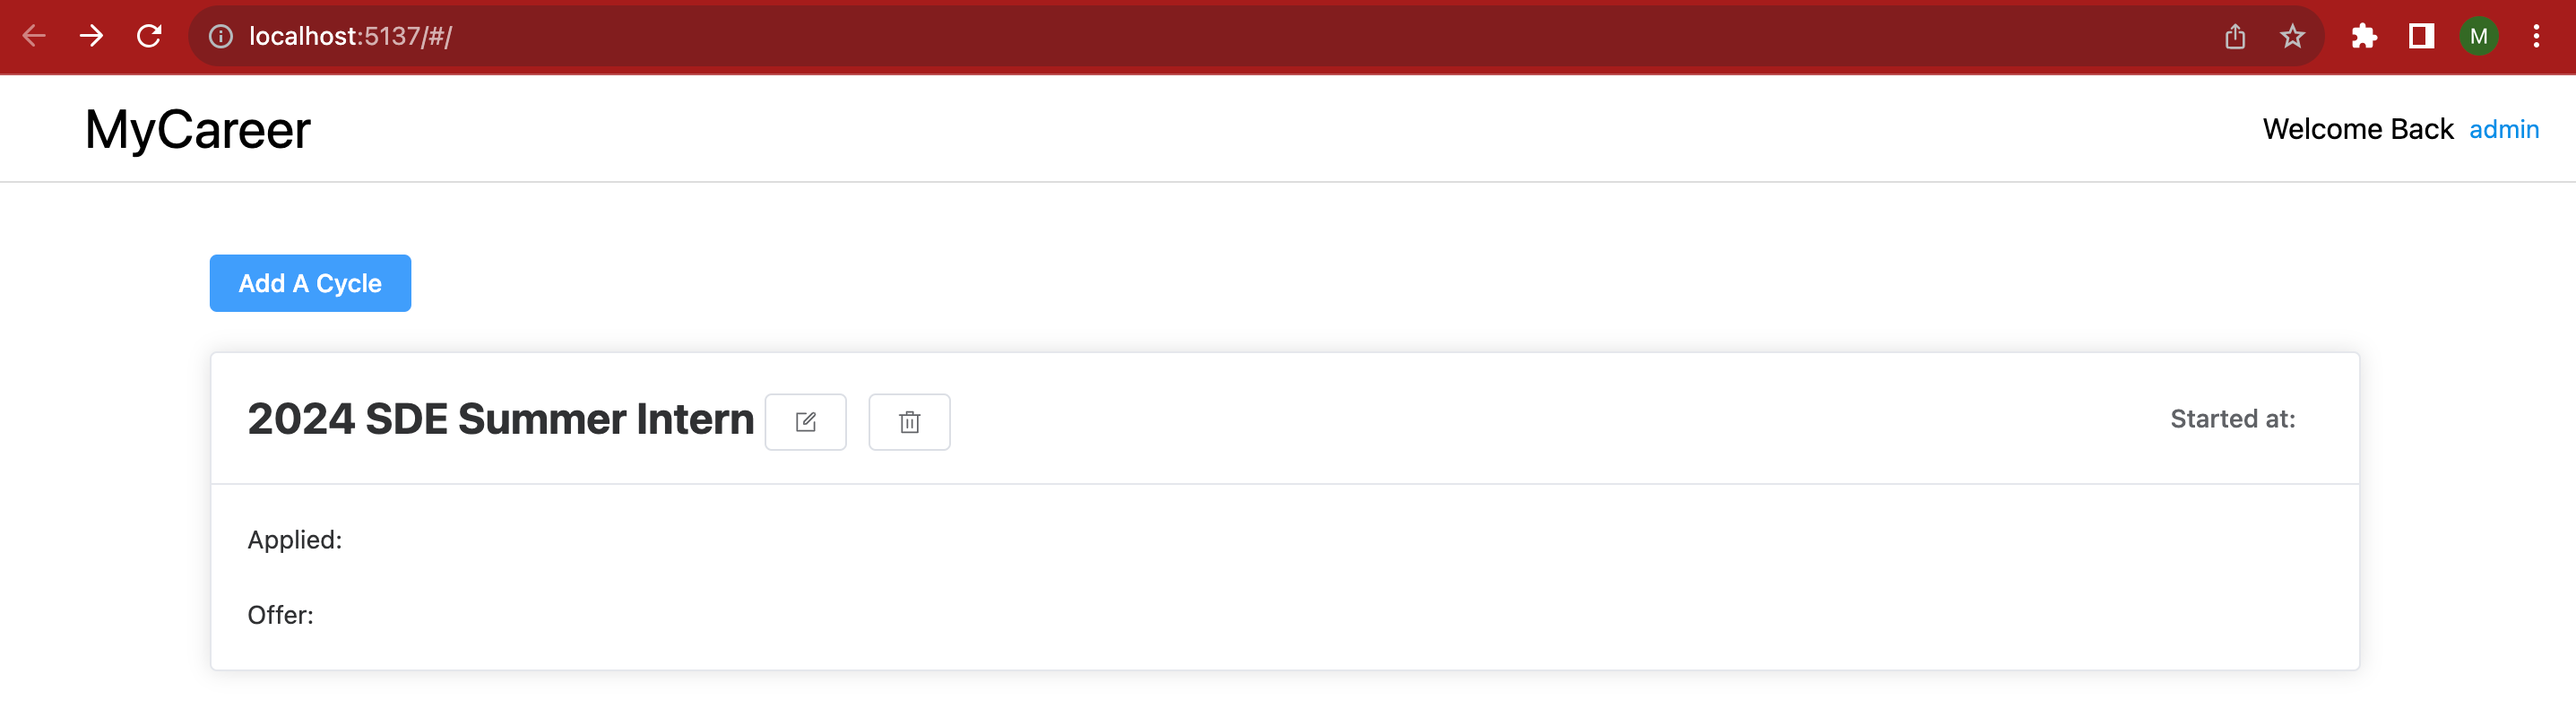
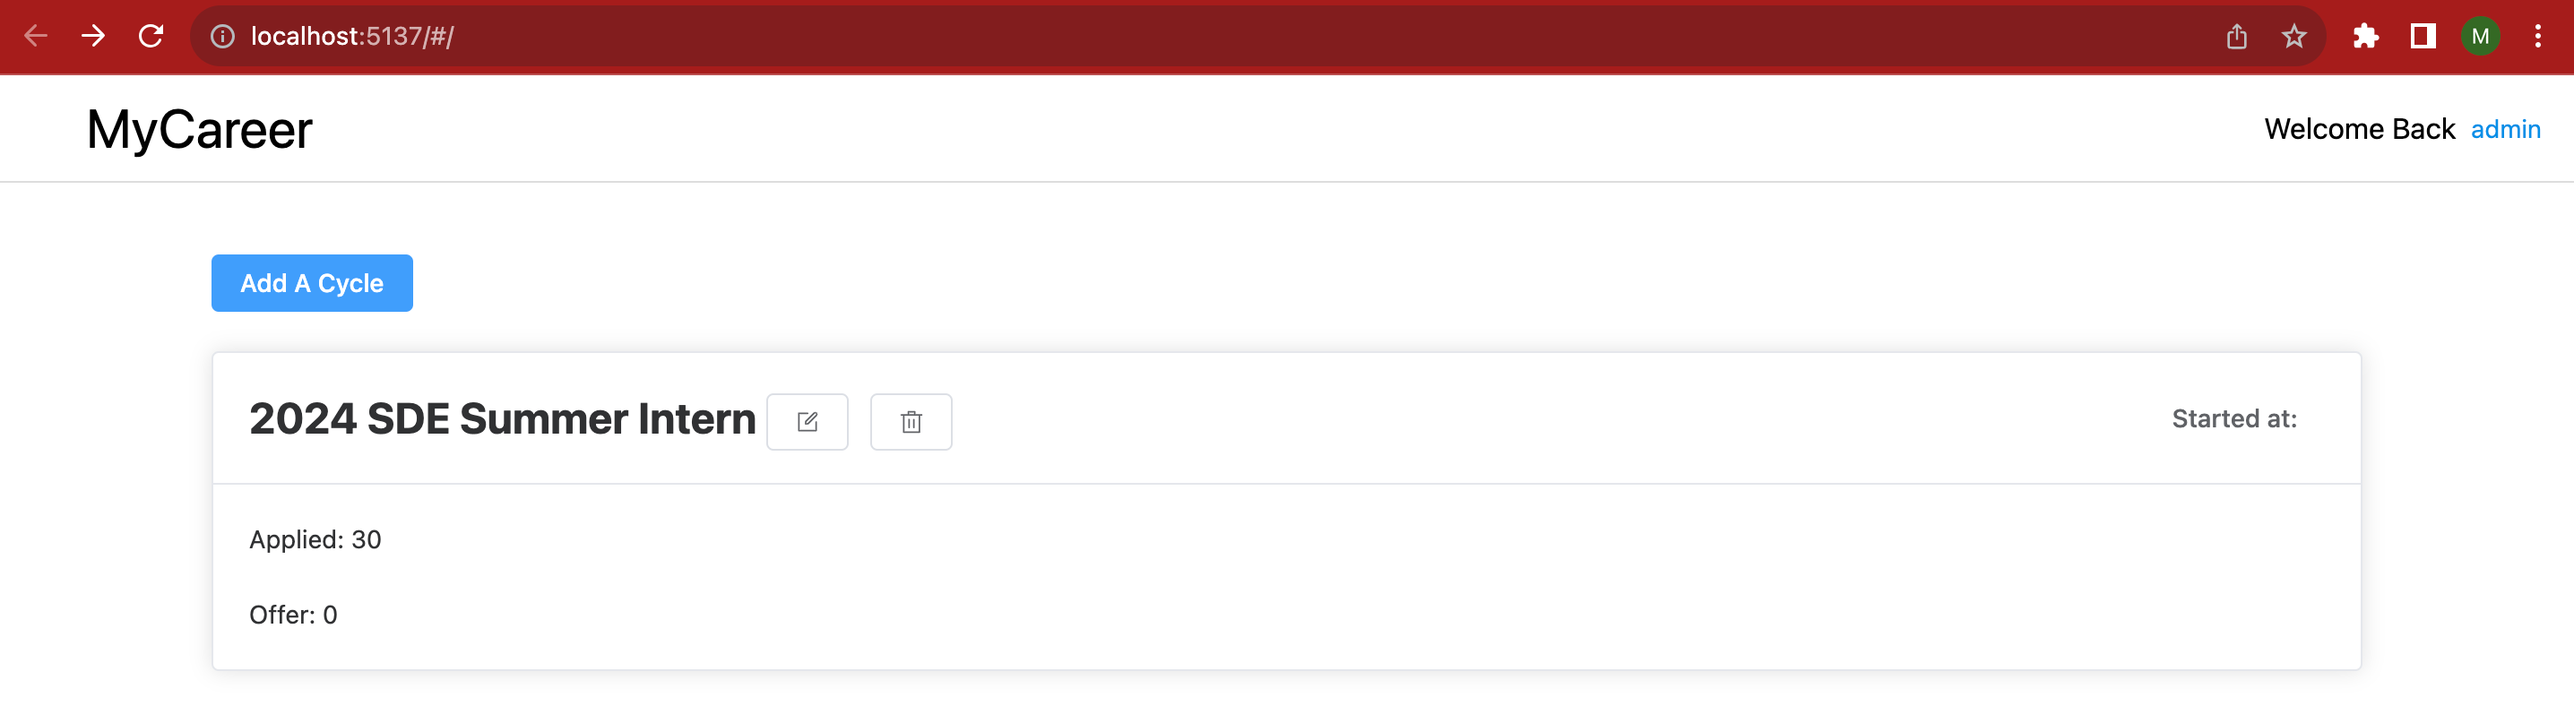
ApplyCount & OfferCount

diff --git a/src/components/cycleCard.vue b/src/components/cycleCard.vue
@@ -10,9 +10,9 @@
           <el-button class="button" text>Started at:</el-button>
         </div>
       </template>
-      <div class="text">Applied: </div>
+      <div class="text">Applied: {{ applyNum(cycle.id)  }}</div>
         <br/>
-      <div class="text">Offer: </div>
+      <div class="text">Offer: {{ offerNum(cycle.id) }}</div>
     </el-card>
   </div>
   <el-dialog v-model="editDialogVisible" title="Edit Cycle Name" width="30%" center>
@@ -29,13 +29,18 @@
 <script setup>
 import { Edit, Delete } from '@element-plus/icons-vue'
 import { reactive, ref } from "vue"
-import { getAllCycles,deleteCycle } from "~/api/cycle"
+import { getAllCycles, deleteCycle } from "~/api/cycle"
+import { getApplyNum, getOfferNum } from '~/api/application'
 import { notify } from '../composables/util'
 import { useRouter } from 'vue-router'
 
 
+//TODO: appliedCount & offerCount for all cycles
+
 const editDialogVisible = ref(false)
 const input = ref('')
+const appliedCount = ref(0)
+const offerCount = ref(0)
 const cycle_list = ref(null)
 const router = useRouter()
 
@@ -44,10 +49,27 @@ getAllCycles()
   cycle_list.value = res.data
 })
 
+const applyNum = (cycle_id) => {
+  getApplyNum(cycle_id)
+  .then(res => {
+    appliedCount.value = res.data.count
+  })
+  return appliedCount.value
+}
+
+const offerNum = (cycle_id) => {
+  getOfferNum(cycle_id)
+  .then(res => {
+    offerCount.value = res.data.count
+  })
+  return offerCount.value
+}
+
+
 const goDeleteCycle = (cycle_id) => {
   deleteCycle(cycle_id)
   .then(res => {
-    window.location.reload()
+    getAllCycles()
     notify("delete success")
   })
 }

diff --git a/src/api/application.js b/src/api/application.js
@@ -1,9 +1,5 @@
 import service from '~/axios'
 
-// var currentUrl = window.location.href;
-// var arr = currentUrl.split('/')
-// var cycle_id = arr[arr.length - 1]
-
 export function getAllApplication(){
     var currentUrl = window.location.href;
     var arr = currentUrl.split('/')
@@ -32,4 +28,12 @@ export function updateApplication(app_id, company, url, comment){
 
 export function deleteApplication(app_id) {
     return service.post("/application/delete/" + app_id, {})
+}
+
+export function getApplyNum(cycle_id) {
+    return service.get('/application/getAppliedNum/' + cycle_id)
+}
+
+export function getOfferNum(cycle_id) {
+    return service.get('/application/getOfferedNum/' + cycle_id)
 }
